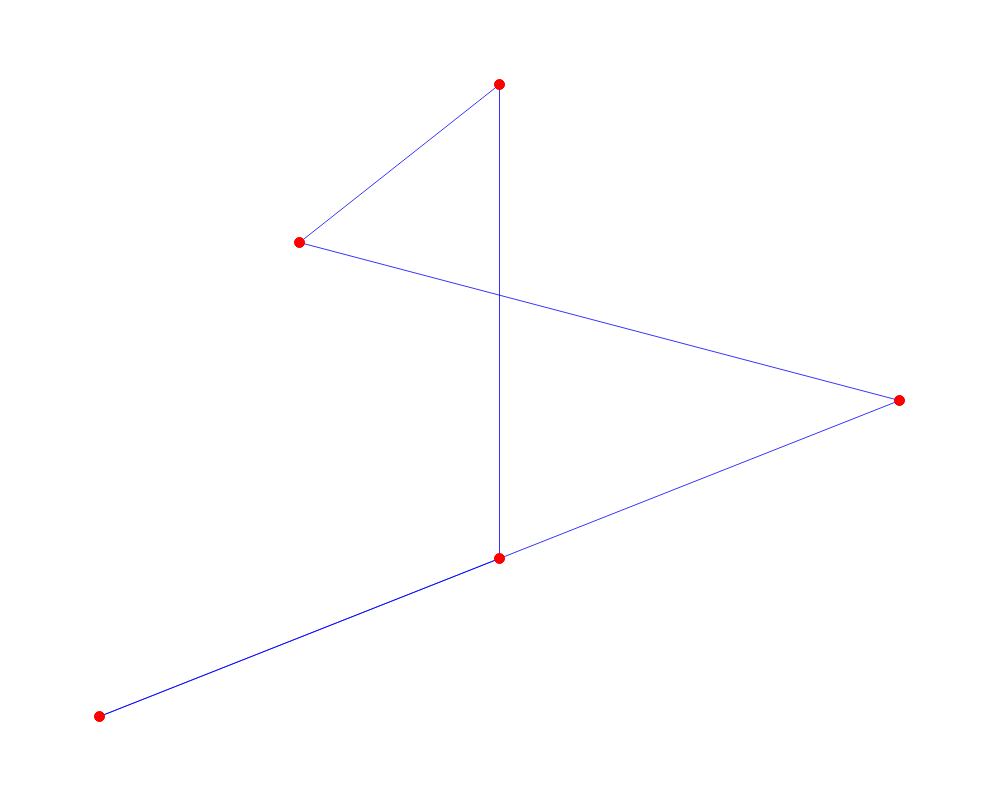
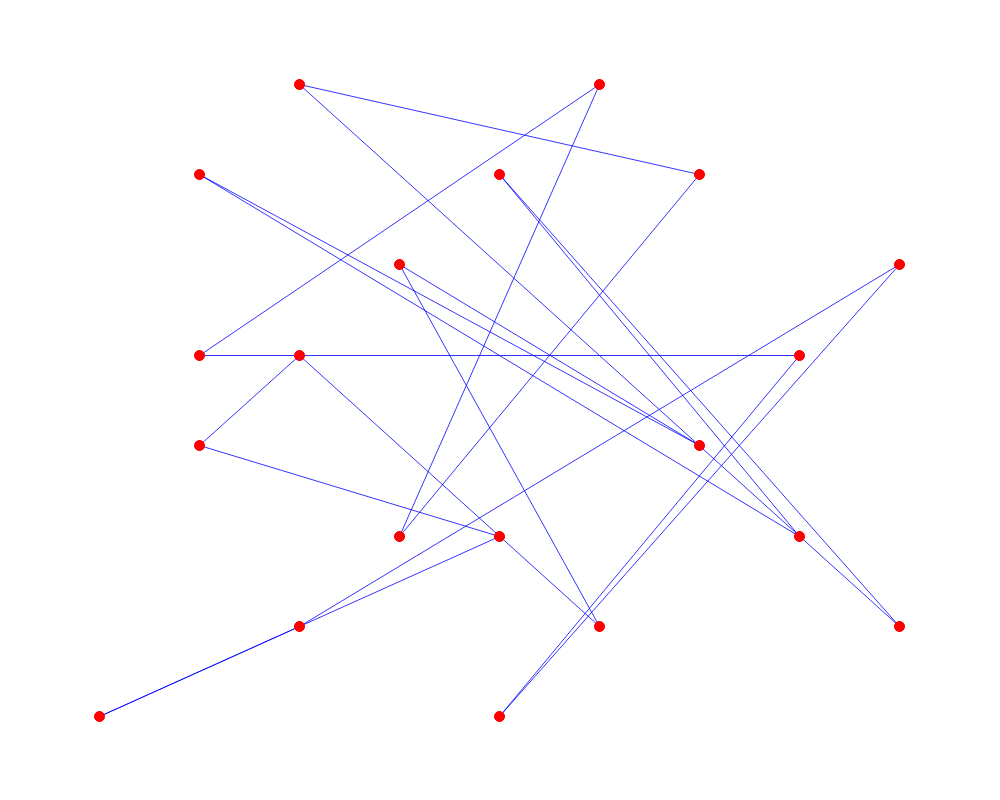
working l1 solution

diff --git a/am/l1/src/algo.rs b/am/l1/src/algo.rs
@@ -1,6 +1,7 @@
 use crate::tsp::{self, VecPoints, point_distance};
 use rand::{Rng, RngExt};
 use rand::seq::SliceRandom;
+use rayon::prelude::*;
 use serde::{Serialize};
 use std::fs::File;
 use std::io::Write;
@@ -169,34 +170,31 @@ impl TspProcedure for LocalSearchZ1 {
 
         let improved_flag = true;
         while improved_flag {
-            let mut best_delta = 0i64;
-            let mut best_i = 0;
-            let mut best_j = 1;
-            let mut found_improvement = false;
-
             let n = route.len();
-            for i in 0..(n - 1) {
-                for j in (i + 1)..n {
-                    if i == 0 && j == n - 1 {
-                        continue;
-                    }
 
-                    let d = calculate_invert_delta(dist_matrix, &route, i, j);
-                    if d < best_delta {
-                        best_delta = d;
-                        best_i = i;
-                        best_j = j;
-                        found_improvement = true;
-                    }
+            // Parallel evaluation of all neighborhood moves
+            // Generate all candidate (i, j) pairs and evaluate them in parallel
+            let best_move = (0..(n - 1))
+                .into_par_iter()
+                .flat_map(|i| {
+                    ((i + 1)..n)
+                        .into_par_iter()
+                        .map(move |j| (i, j))
+                })
+                .filter(|(i, j)| !(*i == 0 && *j == n - 1))
+                .map(|(i, j)| {
+                    let delta = calculate_invert_delta(dist_matrix, &route, i, j);
+                    (delta, i, j)
+                })
+                .min_by_key(|(delta, _, _)| *delta);
+
+            match best_move {
+                Some((best_delta, best_i, best_j)) if best_delta < 0 => {
+                    apply_invert(&mut route, best_i, best_j);
+                    len += best_delta;
+                    steps += 1;
                 }
-            }
-
-            if found_improvement && best_delta < 0 {
-                apply_invert(&mut route, best_i, best_j);
-                len += best_delta;
-                steps += 1;
-            } else {
-                break;
+                _ => break,
             }
         }
 
@@ -221,11 +219,11 @@ impl TspProcedure for LocalSearchZ1 {
         let mut best_distance = i64::MAX;
         let mut best_solution = data.points.clone();
 
-        for i in 0..n {
-            if print && i % 10 == 0 {
-                println!("{}", i);
-            }
+        if print {
+            println!("\x1b[1;36m[LocalSearchZ1] Starting optimization on {} vertices\x1b[0m", data.name);
+        }
 
+        for i in 0..n {
             let result = self.local_search(&data.points, &dist_matrix);
             total_distance += result.distance;
             total_steps += result.n_steps;
@@ -234,6 +232,19 @@ impl TspProcedure for LocalSearchZ1 {
                 best_distance = result.distance;
                 best_solution = result.solution;
             }
+
+            if print && (i % 10 == 0 || i == n - 1) {
+                let progress = ((i + 1) as f64 / n as f64 * 100.0) as u32;
+                let bar_width = 30;
+                let filled = (progress as usize * bar_width / 100).min(bar_width);
+                let bar = format!("[{}{}]", "=".repeat(filled), " ".repeat(bar_width - filled));
+                print!("\r\x1b[1;33m[Z1]\x1b[0m {} {}/{} ({}%) | Best: {}", bar, i + 1, n, progress, best_distance);
+                std::io::Write::flush(&mut std::io::stdout()).ok();
+            }
+        }
+
+        if print {
+            println!("\n\x1b[1;32m[LocalSearchZ1] Complete\x1b[0m");
         }
 
         TspAlgorithmResult {
@@ -311,11 +322,11 @@ impl TspProcedure for LocalSearchZ2 {
         let mut best_distance = i64::MAX;
         let mut best_solution = data.points.clone();
 
-        for i in 0..n {
-            if print && i % 10 == 0 {
-                println!("{}", i);
-            }
+        if print {
+            println!("\x1b[1;36m[LocalSearchZ2] Starting optimization on {} vertices\x1b[0m", data.name);
+        }
 
+        for i in 0..n {
             let result = self.local_search(&data.points, &dist_matrix);
             total_distance += result.distance;
             total_steps += result.n_steps;
@@ -324,6 +335,19 @@ impl TspProcedure for LocalSearchZ2 {
                 best_distance = result.distance;
                 best_solution = result.solution;
             }
+
+            if print && (i % 10 == 0 || i == n - 1) {
+                let progress = ((i + 1) as f64 / n as f64 * 100.0) as u32;
+                let bar_width = 30;
+                let filled = (progress as usize * bar_width / 100).min(bar_width);
+                let bar = format!("[{}{}]", "=".repeat(filled), " ".repeat(bar_width - filled));
+                print!("\r\x1b[1;35m[Z2]\x1b[0m {} {}/{} ({}%) | Best: {}", bar, i + 1, n, progress, best_distance);
+                std::io::Write::flush(&mut std::io::stdout()).ok();
+            }
+        }
+
+        if print {
+            println!("\n\x1b[1;32m[LocalSearchZ2] Complete\x1b[0m");
         }
 
         TspAlgorithmResult {
@@ -396,11 +420,11 @@ impl TspProcedure for LocalSearchZ3 {
         let mut best_distance = i64::MAX;
         let mut best_solution = data.points.clone();
 
-        for i in 0..n {
-            if print && i % 10 == 0 {
-                println!("{}", i);
-            }
+        if print {
+            println!("\x1b[1;36m[LocalSearchZ3] Starting optimization on {} vertices\x1b[0m", data.name);
+        }
 
+        for i in 0..n {
             let result = self.local_search(&data.points, &dist_matrix);
             total_distance += result.distance;
             total_steps += result.n_steps;
@@ -409,6 +433,19 @@ impl TspProcedure for LocalSearchZ3 {
                 best_distance = result.distance;
                 best_solution = result.solution;
             }
+
+            if print && (i % 10 == 0 || i == n - 1) {
+                let progress = ((i + 1) as f64 / n as f64 * 100.0) as u32;
+                let bar_width = 30;
+                let filled = (progress as usize * bar_width / 100).min(bar_width);
+                let bar = format!("[{}{}]", "=".repeat(filled), " ".repeat(bar_width - filled));
+                print!("\r\x1b[1;36m[Z3]\x1b[0m {} {}/{} ({}%) | Best: {}", bar, i + 1, n, progress, best_distance);
+                std::io::Write::flush(&mut std::io::stdout()).ok();
+            }
+        }
+
+        if print {
+            println!("\n\x1b[1;32m[LocalSearchZ3] Complete\x1b[0m");
         }
 
         TspAlgorithmResult {

diff --git a/am/l1/src/main.rs b/am/l1/src/main.rs
@@ -1,13 +1,19 @@
-use l1::{algo, tsp::{self, Data}};
+use l1::{algo::{self, LocalSearchZ1, LocalSearchZ2, LocalSearchZ3}, tsp::{self, Data}};
 use algo::{TspProcedure};
-use std::error::Error;
+use std::{error::Error, path::PathBuf};
 
 
 #[allow(dead_code)]
 fn dummy_test() {
     let algorithm = algo::LocalSearchZ1;
     let mut data = tsp::VecPoints::new();
-    data.points = vec![(2.0, 1.0), (0.0, 0.0), (4.0, 2.0), (1.0, 3.0), (2.0, 4.0)];
+    // Larger dataset to show progress indicators
+    data.points = vec![
+        (2.0, 1.0), (0.0, 0.0), (4.0, 2.0), (1.0, 3.0), (2.0, 4.0),
+        (5.0, 1.0), (3.0, 5.0), (6.0, 3.0), (1.0, 6.0), (7.0, 2.0),
+        (4.0, 6.0), (8.0, 1.0), (2.0, 7.0), (6.0, 6.0), (3.0, 2.0),
+        (5.0, 7.0), (1.0, 4.0), (7.0, 4.0), (4.0, 0.0), (8.0, 5.0),
+    ];
     data.set_name("test".to_string());
     data.visualize(Some("initial")).unwrap();
 
@@ -23,40 +29,43 @@ fn dummy_test() {
     res.best_solution.visualize(Some("solved")).unwrap();
 }
 
+#[allow(dead_code)]
+fn run_experiment(procedure: &dyn TspProcedure, data: &Data, procedure_name: &str) -> Result<PathBuf, Box<dyn Error>>  {
+    // Task 1: Full Local Search with Invert moves
+    println!("  Running LocalSearch{procedure_name} (full invert)...");
+    let result = procedure.run(data, true);
+    println!("  {procedure_name} - Mean: {}, Steps: {}, Best: {}", 
+        result.mean_distance, result.mean_n_steps, 
+        result.best_solution.calc_distance() as i64);
+
+    save_to_csv(data, procedure_name, &result)?;
+
+    result.best_solution.visualize(Some(&format!("results/{}_{}", data.name, procedure_name)))
+}
+
+#[allow(dead_code)]
+fn save_to_csv(data: &Data, procedure_name: &str, result: &algo::TspAlgorithmResult) -> Result<(), Box<dyn Error + 'static>> {
+    let csv_path = format!("results/{}_{}.csv", data.name, procedure_name);
+    let mut wtr = csv::Writer::from_path(&csv_path)?;
+    wtr.write_record(&["mean_distance", "mean_n_steps", "best_distance"])?;
+    wtr.write_record(&[result.mean_distance.to_string(), result.mean_n_steps.to_string(), result.best_solution.calc_distance().to_string()])?;
+    wtr.flush()?;
+    Ok(())
+}
+
 /// Example of running all three algorithms on TSP datasets
 #[allow(dead_code)]
 fn run_full_experiment() -> Result<(), Box<dyn Error>> {
     // These are the TSP problem instances to solve
-    let file_names = ["wi29.tsp", "dj38.tsp", "qa194.tsp", "uy734.tsp", "zi929.tsp"];
+    let file_names = ["mu1979.tsp", "ca4663.tsp", "tz6117.tsp", "eg7146.tsp", "ei8246.tsp"];
+    let data_list = tsp::load_data(&file_names);
     
-    for file_name in file_names.iter() {
-        println!("Processing: {}", file_name);
-        let data = tsp::load_data(&[file_name]);
+    for data in data_list.iter() {
+        println!("Processing: {}", data.name);
         
-        // Task 1: Full Local Search with Invert moves
-        println!("  Running LocalSearchZ1 (full invert)...");
-        let z1 = algo::LocalSearchZ1;
-        let result_z1 = z1.run(&data[0], true);
-        println!("  Z1 - Mean: {}, Steps: {}, Best: {}", 
-            result_z1.mean_distance, result_z1.mean_n_steps, 
-            result_z1.best_solution.calc_distance() as i64);
-        
-        // Task 2: Random sampling Local Search with Invert moves
-        println!("  Running LocalSearchZ2 (random invert)...");
-        let z2 = algo::LocalSearchZ2;
-        let result_z2 = z2.run(&data[0], true);
-        println!("  Z2 - Mean: {}, Steps: {}, Best: {}", 
-            result_z2.mean_distance, result_z2.mean_n_steps, 
-            result_z2.best_solution.calc_distance() as i64);
-        
-        // Task 3: Full Local Search with Transpose moves
-        println!("  Running LocalSearchZ3 (full transpose)...");
-        let z3 = algo::LocalSearchZ3;
-        let result_z3 = z3.run(&data[0], true);
-        println!("  Z3 - Mean: {}, Steps: {}, Best: {}", 
-            result_z3.mean_distance, result_z3.mean_n_steps, 
-            result_z3.best_solution.calc_distance() as i64);
-        
+        // run_experiment(&LocalSearchZ1, data, "Z1")?;
+        run_experiment(&LocalSearchZ2, data, "Z2")?;
+        // run_experiment(&LocalSearchZ3, data, "Z3")?;
         println!();
     }
     
@@ -64,12 +73,6 @@ fn run_full_experiment() -> Result<(), Box<dyn Error>> {
 }
 
 fn main() -> Result<(), Box<dyn Error>> {
-    // Run the dummy test by default
-    dummy_test();
-
-    // Uncomment the line below to run the full experiment on all TSP datasets
-    // Note: This will take some time as it runs n iterations for each algorithm on each dataset
-    // run_full_experiment()?;
-
+    run_full_experiment()?;
     Ok(())
 }

diff --git a/am/l1/zadanie2.md b/am/l1/zadanie2.md
@@ -1,0 +1,63 @@
+## Symulowane wyżarzanie
+
+Symulowane wyżarzanie to jedna z technik projektowania algorytmów heurystycznych (metaheurystyka). Cechą charakterystyczną tej metody jest występowanie parametru sterującego zwanego temperaturą, który maleje w trakcie wykonywania algorytmu. Im wyższą wartość ma ten parametr, tym bardziej chaotyczne mogą być zmiany. Podejście to jest inspirowane zjawiskami obserwowanymi w metalurgii: im większa temperatura metalu, tym bardziej jest on plastyczny.
+
+Jest to metoda iteracyjna: najpierw losowane jest pewne rozwiązanie, a następnie jest ono w kolejnych krokach modyfikowane. Jeśli w danym kroku uzyskamy rozwiązanie lepsze, wybieramy je zawsze. Istotną cechą symulowanego wyżarzania jest jednak to, że z pewnym prawdopodobieństwem może być również zaakceptowane rozwiązanie gorsze (ma to na celu umożliwienie wyjście z maksimum lokalnego).
+
+Prawdopodobieństwo przyjęcia gorszego rozwiązania wyrażone jest wzorem e^((f(X)−f(X′))/T) (rozkład Boltzmanna), gdzie X jest poprzednim rozwiązaniem, X′ nowym rozwiązaniem, a f funkcją oceny jakości – im wyższa wartość f(X), tym lepsze rozwiązanie. Ze wzoru można zauważyć, że prawdopodobieństwo przyjęcia gorszego rozwiązania spada wraz ze spadkiem temperatury i wzrostem różnicy jakości obu rozwiązań.
+
+Przez rozpoczęciem wykonywania algorytmu należy ustalić:
+    - początkową wartość temperatury T;
+    - sposób obniżania temperatury (często stosowanym rozwiązaniem jest mnożenie aktualnej temperatury przez pewien współczynnik, zazwyczaj mieszczący się w przedziale [0.8,0.99]);
+    - liczbę prób przeprowadzanych w ramach jednej epoki (z tą samą temperaturą);
+    - sposób wyboru nowego rozwiązania w ramach pojedynczej próby;
+    - warunek stopu (może to być np. określona liczba epok lub brak lepszego rozwiązania w trakcie ostatnio wykonanych epok).
+  
+Działanie algorytmu można opisać następująco:
+    1. Wylosuj rozwiązanie początkowe X.
+    2. Wybierz losowe rozwiązanie X′ znajdujące się w sąsiedztwie X.
+    3. Jeśli X′jest lepsze to je przyjmij (X := X′). W przeciwnym razie, wyznacz prawdopodobieństwo przyjęcia nowego rozwiązania używając wzoru e^((f(X)−f(X′))/T) i z tym prawdopodobieństwem X := X′.
+    4. Jeśli nie wykonano jeszcze odpowiedniej liczby prób w obrębie danej epoki, wróć do punktu 2.
+    5. Zmniejsz temperaturę.
+    6. Jeśli nie osiągnięto jeszcze warunku stopu, wróć do punktu 2.
+
+Ostatecznie, rezultatem działania algorytmu jest najlepsze znalezione w trakcie obliczeń rozwiązanie.
+
+## Tabu Search
+
+Tabu Search jest algorytmem który rozszerza Local Search przez dodanie mechanizmu zabronień (listy tabu), którego celem jest umożliwienie opuszczania ekstremów lokalnych oraz uniemożliwienie wpadania algorytmu w cykle. Za każdym razem kiedy rozwiązanie jest wybierane z otoczenia, jego reprezentacja jest umieszczana na liście tabu. Ponieważ zabronione jest wybieranie rozwiązania którego reprezentacja znajduje się na liście tabu, algorytm może opuścić ekstremum lokalne.
+
+Przez rozpoczęciem wykonywania algorytmu należy ustalić:
+    - długość listy tabu (można wykorzystać wyniki z poprzedniego zadania, czyli ustalić jakąś wielokrotność liczby poprawek prowadzących do lokalnego minimum);
+    - sposób wyboru nowego rozwiązania w ramach pojedynczej próby (deterministyczny po wszystkich sąsiadach czy losowy po pewnej ich próbce);
+    - warunek stopu (może to być np. koniec miejsca na liście lub brak poprawy w jakimś odcinku czasu).
+
+Działanie algorytmu można opisać następująco:
+  1. Wybierz rozwiązanie początkowe (np. wylosuj).
+  2. Przeszukaj otoczenie bieżącego rozwiązania (deterministycznie lub losowo) i wybierz najlepsze którego nie ma na liście.
+  3. Umieść je na liście i przyjmij jako bieżące rozwiązanie.
+  4. Sprawdź warunek stopu i jeśli nie zachodzi to wróć do punktu 2 (warunkiem stopu może być np. koniec pojemności listy, lub liczba iteracji bez znalezienia nowego najlepszego rozwiązania).
+
+Ostatecznie, rezultatem działania algorytmu jest najlepsze znalezione w trakcie obliczeń rozwiązanie.
+
+# Zadania
+
+Dla danych z poprzedniej listy oraz zbiorów Oman, Canada, Tanzania, Egypt i Ireland (mu1979.tsp, ca4663.tsp, tz6117.tsp, eg7146.tsp, ei8246.tsp) wykonaj następujące zadania:
+
+### Zadanie 1
+
+Zaimplementuj algorytm symulowanego wyżarzania i na małych danych (poniżej 1000
+wierzchołków) przetestuj wybór parametrów. Opisz w sprawozdaniu w jaki sposób zostały wybrane te parametry. Następnie dla dużych danych wykonaj po 100 prób i podaj
+najlepsze uzyskane rozwiązanie oraz średnią wartość uzyskanych rozwiązań.
+
+### Zadanie 2
+
+Zaimplementuj algorytm Tabu Search i na małych danych (poniżej 1000 wierzchołków)
+przetestuj wybór parametrów. Opisz w sprawozdaniu w jaki sposób zostały wybrane
+te parametry. Następnie dla dużych danych wykonaj po 100 prób i podaj najlepsze
+uzyskane rozwiązanie oraz średnią wartość uzyskanych rozwiązań.
+
+
+### Zadanie 3 
+
+W języku Python, porównaj skuteczność i czas dotychczas użytych metod (z tej i poprzedniej listy).
